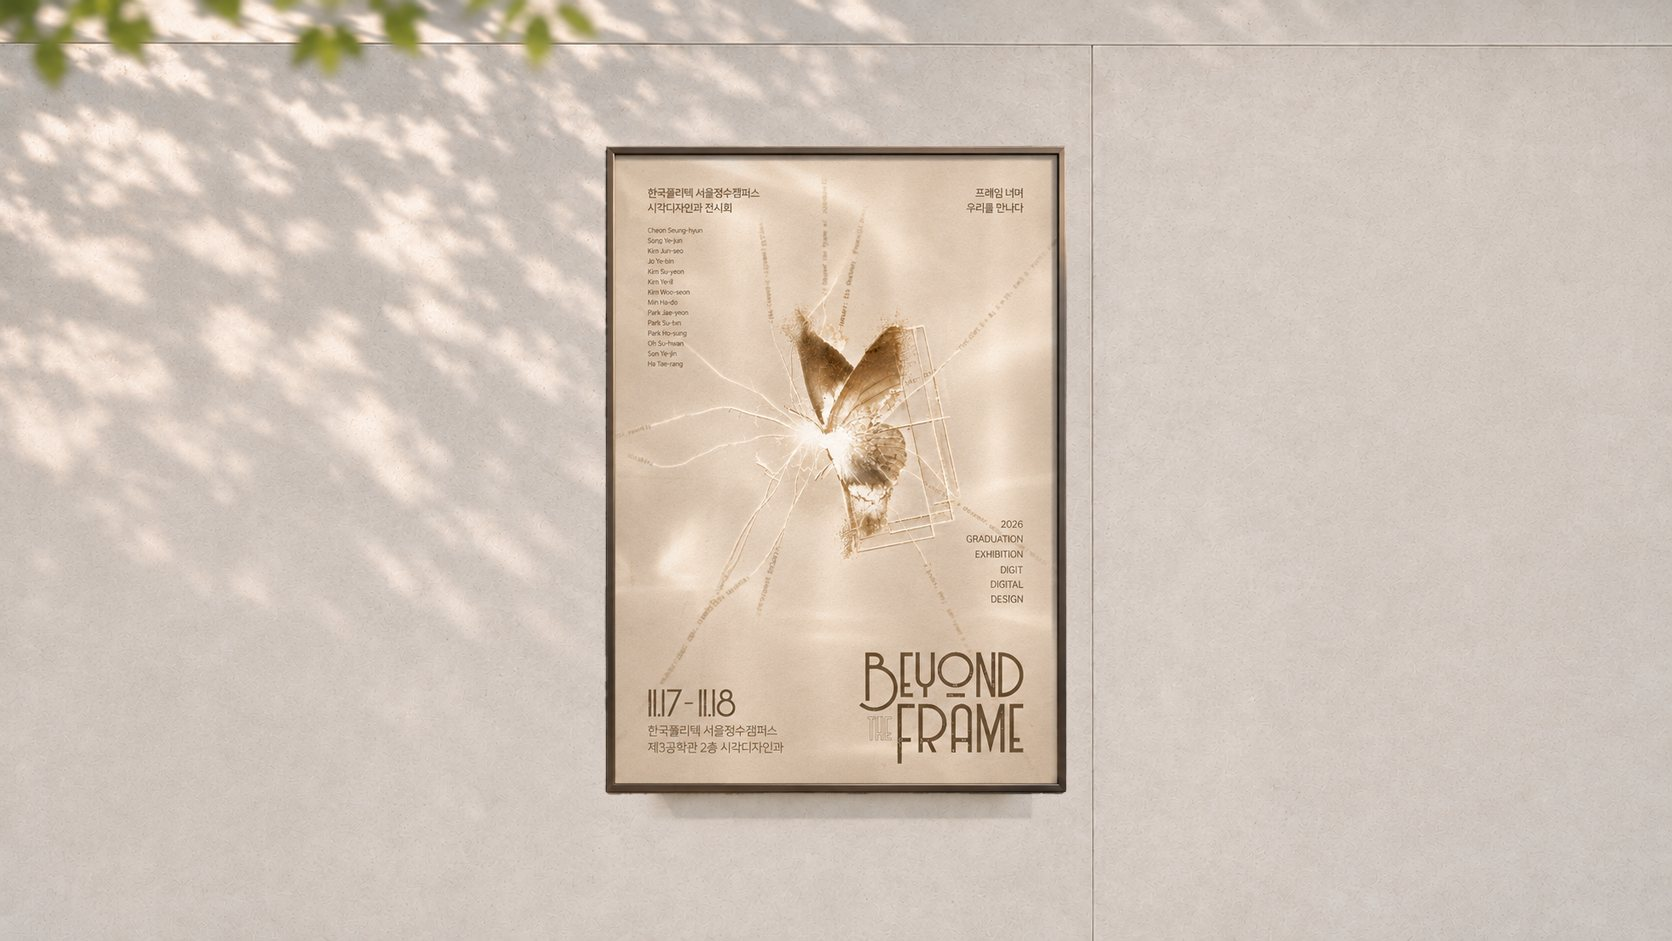
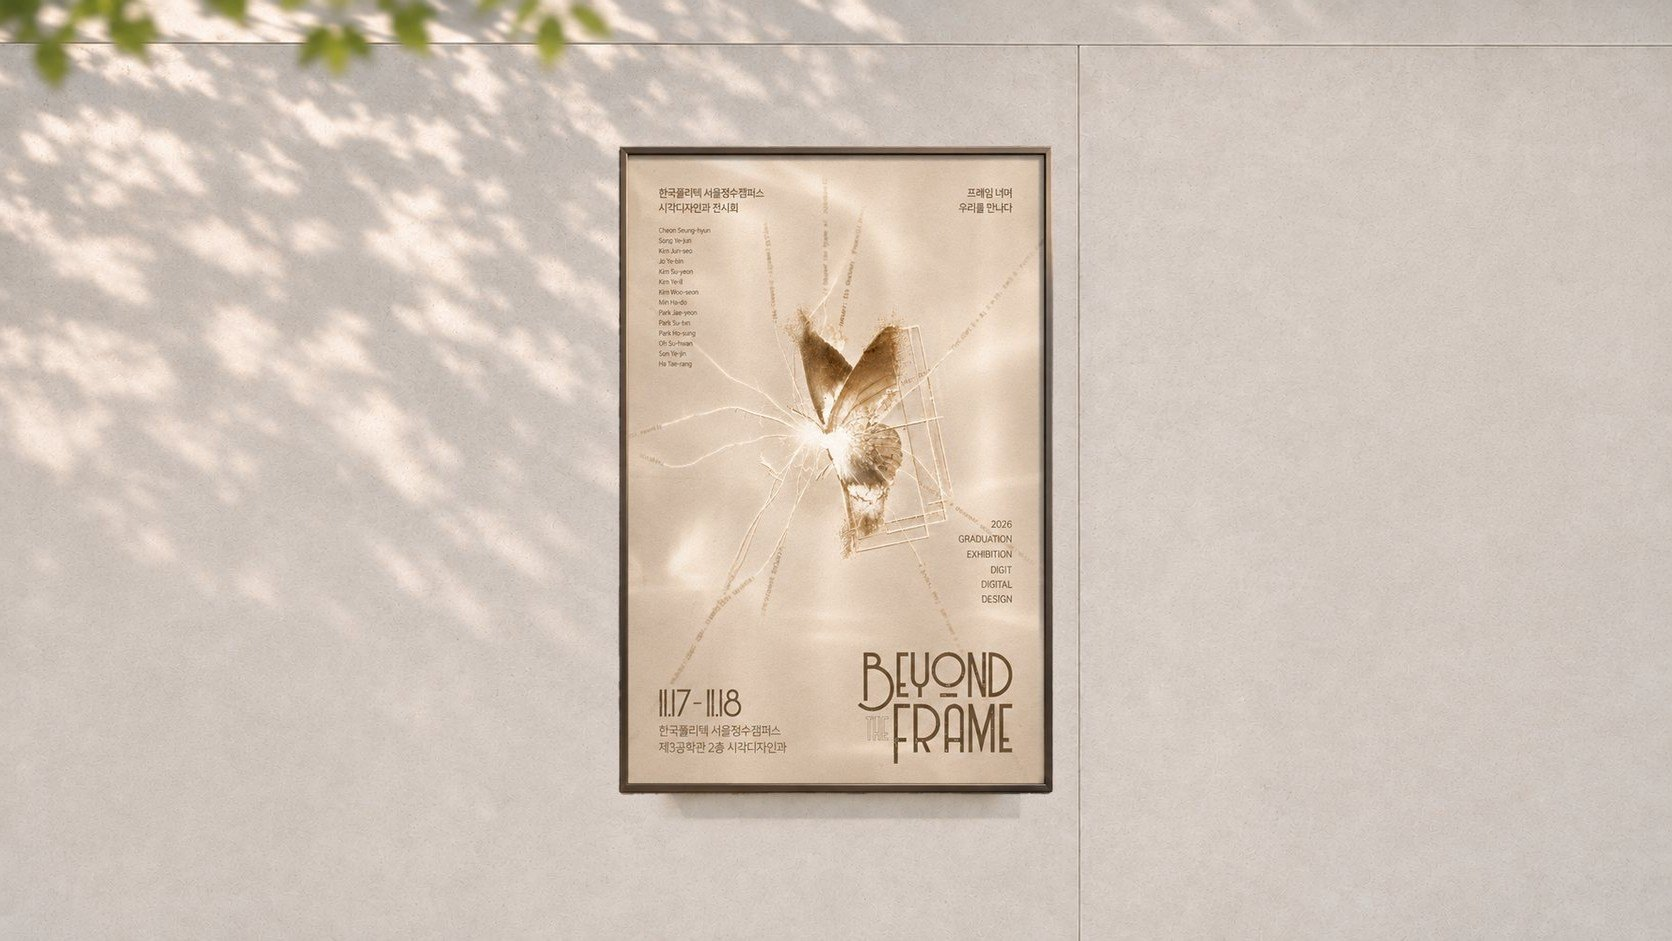
Intro scene 2: main poster was stretched sideways in the poster-wall image (paper 0.705 vs real 0.662) — narrowed the framed poster to its true shape, wall around it widened 3% to fill; poster layer coordinates updated
Claude-Session: https://claude.ai/code/session_01RU8hEdguXxTxLo2fR1UCvc

diff --git a/js/intro-scroll.js b/js/intro-scroll.js
@@ -38,7 +38,7 @@ function createIntroScroll(root, opts) {
   function hex(a, b, u) { return 'rgb(' + [0, 1, 2].map(function (i) { return Math.round(lerp(a[i], b[i], u)); }).join(',') + ')'; }
 
   // where the poster sits inside the photo (px in the 1672 x 941 image), so its own layer and the effects line up at any screen shape
-  var IMG = { w: 1672, h: 941, x0: 606, x1: 1066, y0: 148, y1: 794 };
+  var IMG = { w: 1672, h: 941, x0: 619, x1: 1052, y0: 148, y1: 794 };   // 2026-11-15: 포스터가 가로로 늘어나 있던 것을 실제 비율(0.662)로 좁힘
   function layout() {
     W = root.clientWidth || innerWidth; H = root.clientHeight || innerHeight;
     root.style.setProperty('--iw', W / 100 + 'px'); root.style.setProperty('--ih', H / 100 + 'px');
